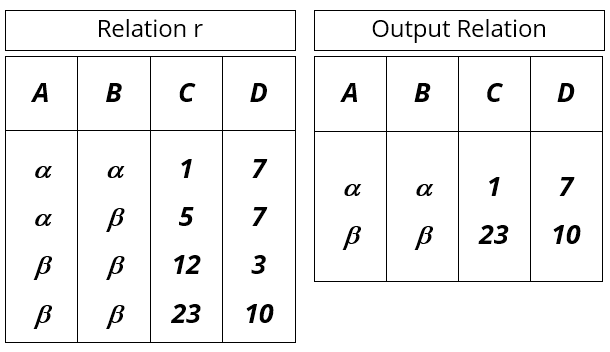
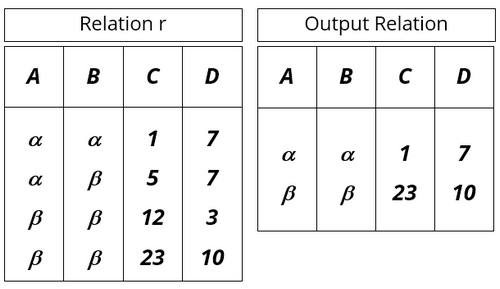
images are resized

diff --git a/08 Relational Algebra.md b/08 Relational Algebra.md
@@ -34,7 +34,7 @@
 
 - **Symbol** : σ (SIGMA)
 
-![image-20210818104159080](images/image-20210818104159080.png)
+![image-20210819101109443](images/image-20210819101109443.png)
 
 - **Operation:** Display particular tuples from a relation that satisfy a given condition (predicate) 
 - **Operators:** =, <>, <, >, <=, >=, ^ (AND), v (OR)
@@ -43,7 +43,7 @@
 
 - Select all account whose balance is greater then 100000 from relation SavingAaccount
 
-![image-20210818104300989](images/image-20210818104300989.png)
+![image-20210819100921515](images/image-20210819100921515.png)
 
 **Example 2**
 
@@ -68,13 +68,13 @@ Above is the relation Student. Find below using Select operation
 
 **Answers**
 
-![image-20210818110243133](images/image-20210818110243133.png)
+![image-20210819101549503](images/image-20210819101549503.png)
 
 # PROJECT Operation
 
 - **Symbol:** Π (Pi)
 
-![image-20210818110643960](images/image-20210818110643960.png)
+![image-20210819101720989](images/image-20210819101720989.png)
 
 - **Operation:** Selects specified attributes of a relation.
 - Project operation selects certain columns from a table while discarding others.
@@ -85,7 +85,7 @@ Above is the relation Student. Find below using Select operation
 
 List out all account number and name from SavingAccount relation
 
-![image-20210818110939744](images/image-20210818110939744.png)
+![image-20210819101815804](images/image-20210819101815804.png)
 
 **Example 2**
 
@@ -106,7 +106,7 @@ Above is the relation Student. Find below using Project operation
 
 **Answers**
 
-![image-20210818114558557](images/image-20210818114558557.png)
+![image-20210819102105782](images/image-20210819102105782.png)
 
 # Combination of SELECT and PROJECT Operation
 
@@ -116,7 +116,7 @@ We can also combine Select and Project operation as seen in below example.
 
 Display the Enrollno,Name and city of “IT” branch students.
 
-![image-20210818115050526](images/image-20210818115050526.png)
+![image-20210819102204016](images/image-20210819102204016.png)
 
 **Output Relation**
 

diff --git a/04 DBMS in Detail.md b/04 DBMS in Detail.md
@@ -94,6 +94,8 @@ There are 3 levels of data abstraction
 
 ![Data_Abstraction_Level](images/Data_Abstraction_Level.png)
 
+> Levels of Data Abstraction (Hierarchy of Data Abstraction Levels)
+
 # Data Independence
 
 - Main purpose of Data Abstraction is to achieve data independence to save time and cost required when data is modified or altered.
